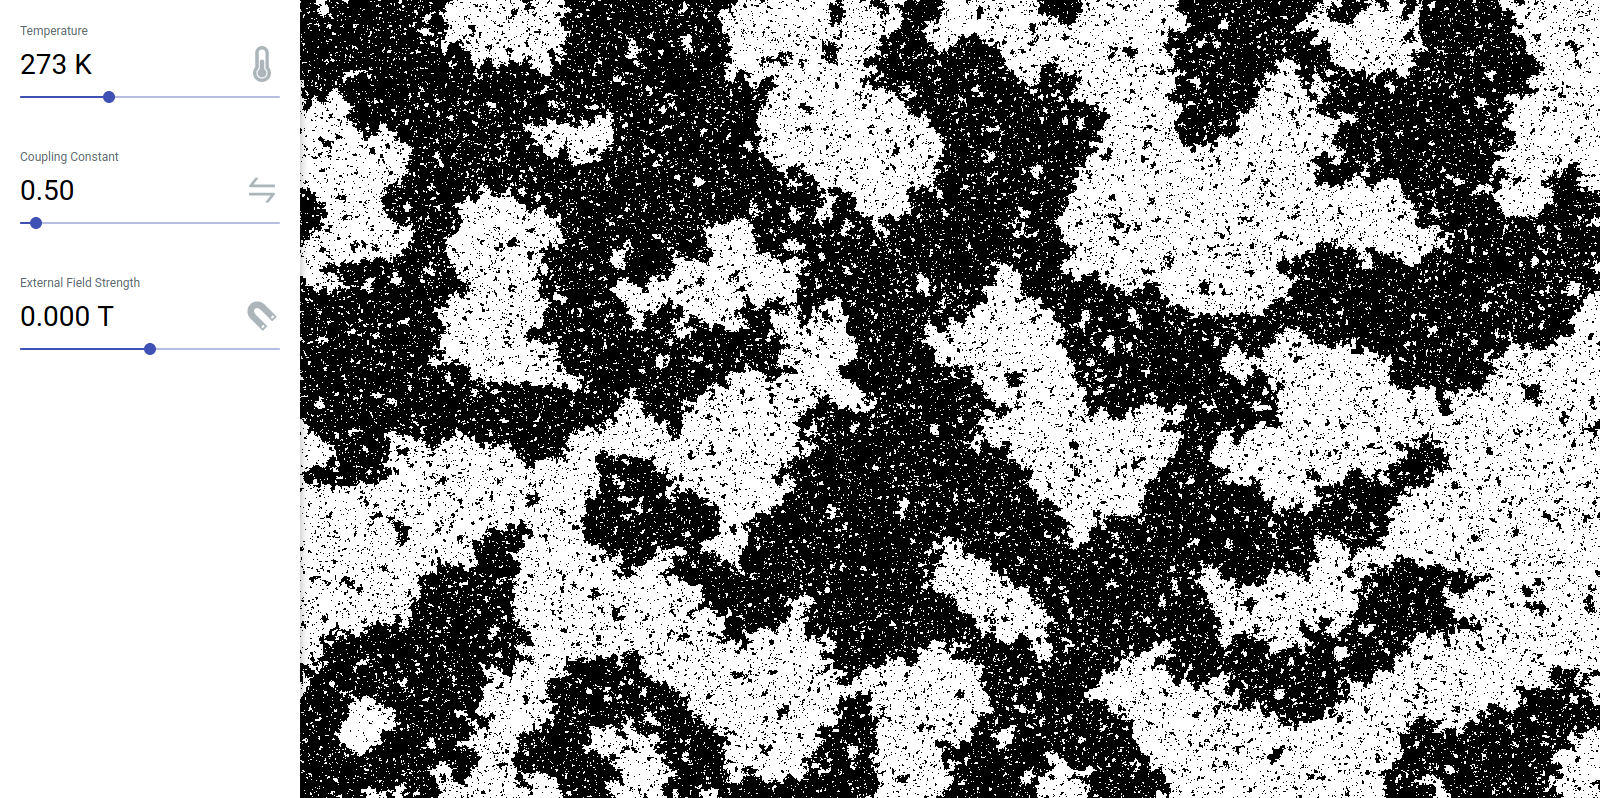
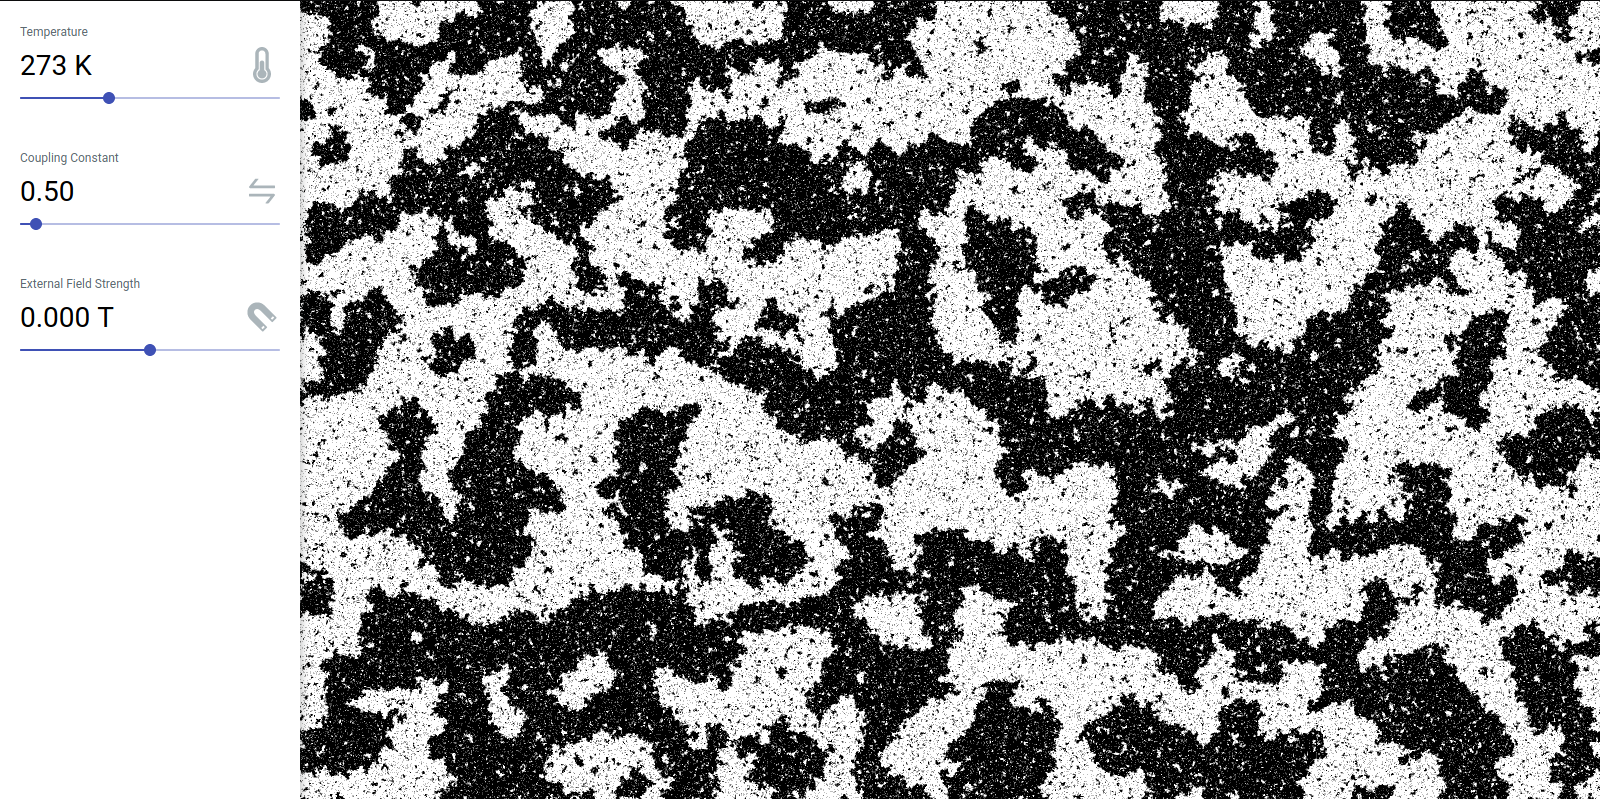
Doubled simulation resolution with shader magic

diff --git a/src/simulation/build/frag.js b/src/simulation/build/frag.js
@@ -8,6 +8,7 @@ uniform float u_coupling;
 uniform float u_field;
 uniform float u_temperature;
 
+uniform float u_pass;
 uniform float u_iteration;
 uniform float u_random_seed;
 
@@ -15,11 +16,11 @@ varying vec2 v_texCoord;
 
 const float C_BOLTZMANN = 4e-3;
 
-float get_spin(float dx, float dy) {
+vec4 get_pixel(float dx, float dy) {
     return 2.0 * texture2D(
         u_spin,
         v_texCoord + vec2(dx, dy) / u_resolution
-    ).x - 1.0;
+    ) - 1.0;
 }
 
 float rand(vec2 co) {
@@ -27,27 +28,49 @@ float rand(vec2 co) {
 }
 
 void main() {
-    float spin = get_spin(0.0, 0.0);
-    float delta_h = 2.0 * spin * (u_coupling * (
-        get_spin(1.0, 0.0)
-        + get_spin(-1.0, 0.0)
-        + get_spin(0.0, 1.0)
-        + get_spin(0.0, -1.0)
-    ) + u_field);
-    float beta = 1.0 / (u_temperature * C_BOLTZMANN);
-    float flip_probability = exp(-max(delta_h, 0.0) * beta);
+    vec4 current = get_pixel(0.0, 0.0);
+    vec4 new = (current + 1.0)/2.0;
 
-    // Ensures we never flip two adjacent cells at once
-    bool mask = mod(
-        gl_FragCoord.x + gl_FragCoord.y + u_iteration, 2.0
-    ) < 0.5;
+    // We cram a 2x2 block of binary spin states into each pixel:
+    // R G
+    // B A
+    vec4 top = get_pixel(0.0, 1.0);
+    vec4 bottom = get_pixel(0.0, -1.0);
+    vec4 left = get_pixel(-1.0, 0.0);
+    vec4 right = get_pixel(1.0, 0.0);
 
-    float new_spin = (spin + 1.0)/2.0;
-    if (mask && (rand(
-        v_texCoord + u_random_seed * vec2(1.0, 3.14159)
-    ) < flip_probability)) {
-        new_spin = 1.0 - new_spin;
+    // Sum of four adjacent spin vectors for each 'subpixel'
+    vec4 adjacent_sum = vec4(
+        current.y + current.z + top.z + left.y,
+        current.x + current.w + top.w + right.x,
+        current.x + current.w + left.w + bottom.x,
+        current.y + current.z + right.z + bottom.y
+    );
+
+    // Render to texture on pass zero, otherwise render to screen.
+    if (u_pass < 0.5) {
+        // Compute new spins on pass 0, otherwise just display existing spins.
+        vec4 delta_h = 2.0 * current * (u_coupling * adjacent_sum + u_field);
+        float beta = 1.0 / (u_temperature * C_BOLTZMANN);
+        vec4 flip_probability = exp(-max(delta_h, 0.0) * beta);
+
+        // Update only 'odd' checkerboard on odd iterations and vice-versa
+        vec2 noise = vec2(
+            rand(v_texCoord + u_random_seed * vec2(3.14159, 0.0)),
+            rand(v_texCoord + u_random_seed * vec2(0.0, 3.14159))
+        );
+        if (u_iteration > 0.5) {
+            if (flip_probability.x > noise.x) {new.x = 1.0 - new.x;}
+            if (flip_probability.w > noise.y) {new.w = 1.0 - new.w;}
+        } else {
+            if (flip_probability.y > noise.x) {new.y = 1.0 - new.y;}
+            if (flip_probability.z > noise.y) {new.z = 1.0 - new.z;}
+        }
+
+        gl_FragColor = new;
+    } else {
+        float average = (new.x + new.y + new.z + new.w) / 4.0;
+        gl_FragColor = vec4(average, average, average, 1.0);
     }
-    gl_FragColor = vec4(new_spin, new_spin, new_spin, 1.0);
 }
 `;

diff --git a/src/simulation/index.js b/src/simulation/index.js
@@ -16,12 +16,14 @@ let state = {
     field: 0,
     temperature: 273,
     iteration: 0,
+    pass: 0,
     random_seed: 0,
 };
 
 // Location of GLSL uniforms.
 // Will be initialized based on state.
 let uniforms = {};
+
 
 
 // GLSL Initialization Functions
@@ -96,6 +98,7 @@ function createUniforms() {
 }
 
 
+
 // GLSL Update Functions
 function initializeTexture() {
     // Initialize empty texture
@@ -115,6 +118,9 @@ function setState(name, value) {
     state[name] = value;
     gl.uniform1f(uniforms[name], value);
 }
+
+
+
 
 
 // Main initialization function
@@ -154,6 +160,7 @@ function render() {
     gl.bindTexture(gl.TEXTURE_2D, currentState);
 
     // Render to texture
+    setState('pass', 0);
     gl.bindFramebuffer(gl.FRAMEBUFFER, framebuffer);
     gl.framebufferTexture2D(
         gl.FRAMEBUFFER, gl.COLOR_ATTACHMENT0,
@@ -162,6 +169,7 @@ function render() {
     gl.drawArrays(gl.TRIANGLES, 0, 6);
 
     // Render to screen
+    setState('pass', 1);
     gl.bindFramebuffer(gl.FRAMEBUFFER, null);
     gl.drawArrays(gl.TRIANGLES, 0, 6);
 

diff --git a/src/components/HelpText/index.js b/src/components/HelpText/index.js
@@ -6,8 +6,8 @@ function HelpText() {
     const [open, setOpen] = useState(true);
 
     return <>
-        <div className={'help-container ' + (open ? 'open' : 'closed')}>
-        <div className='help-text'>
+        <div className={'help-container ' + (open ? 'open' : 'closed')} onClick={() => setOpen(false)}>
+        <div className='help-text' onClick={(e) => e.stopPropagation()}>
             <div className='header'>
                 <span className='icon'><Magnet/></span>
                 <div className='title'>

diff --git a/src/components/Controls/index.js b/src/components/Controls/index.js
@@ -27,8 +27,8 @@ const info = {
     },
     field: {
         name: 'External Field Strength',
-        min: -2,
-        max: 2,
+        min: -0.5,
+        max: 0.5,
         decimals: 3,
         unit: 'T',
         icon: <Magnet/>

diff --git a/README.md b/README.md
@@ -12,7 +12,10 @@ including:
 
 ## Technical details
 Simulation is done on the GPU (render-to-texture) via Metropolis sampling.
+We store 4 spins (one per channel) in each pixel, so the simulation runs at twice
+the native pixel resolution of the canvas.
+
 To ensure that pixel updates remain independent
 during parallelization, we perform two passes,
-each of which updates pixels in checkerboard formation.
+each of which updates pixels in a checkerboard formation.
 This ensures that two adjacent pixels will never be simultaneously flipped.
